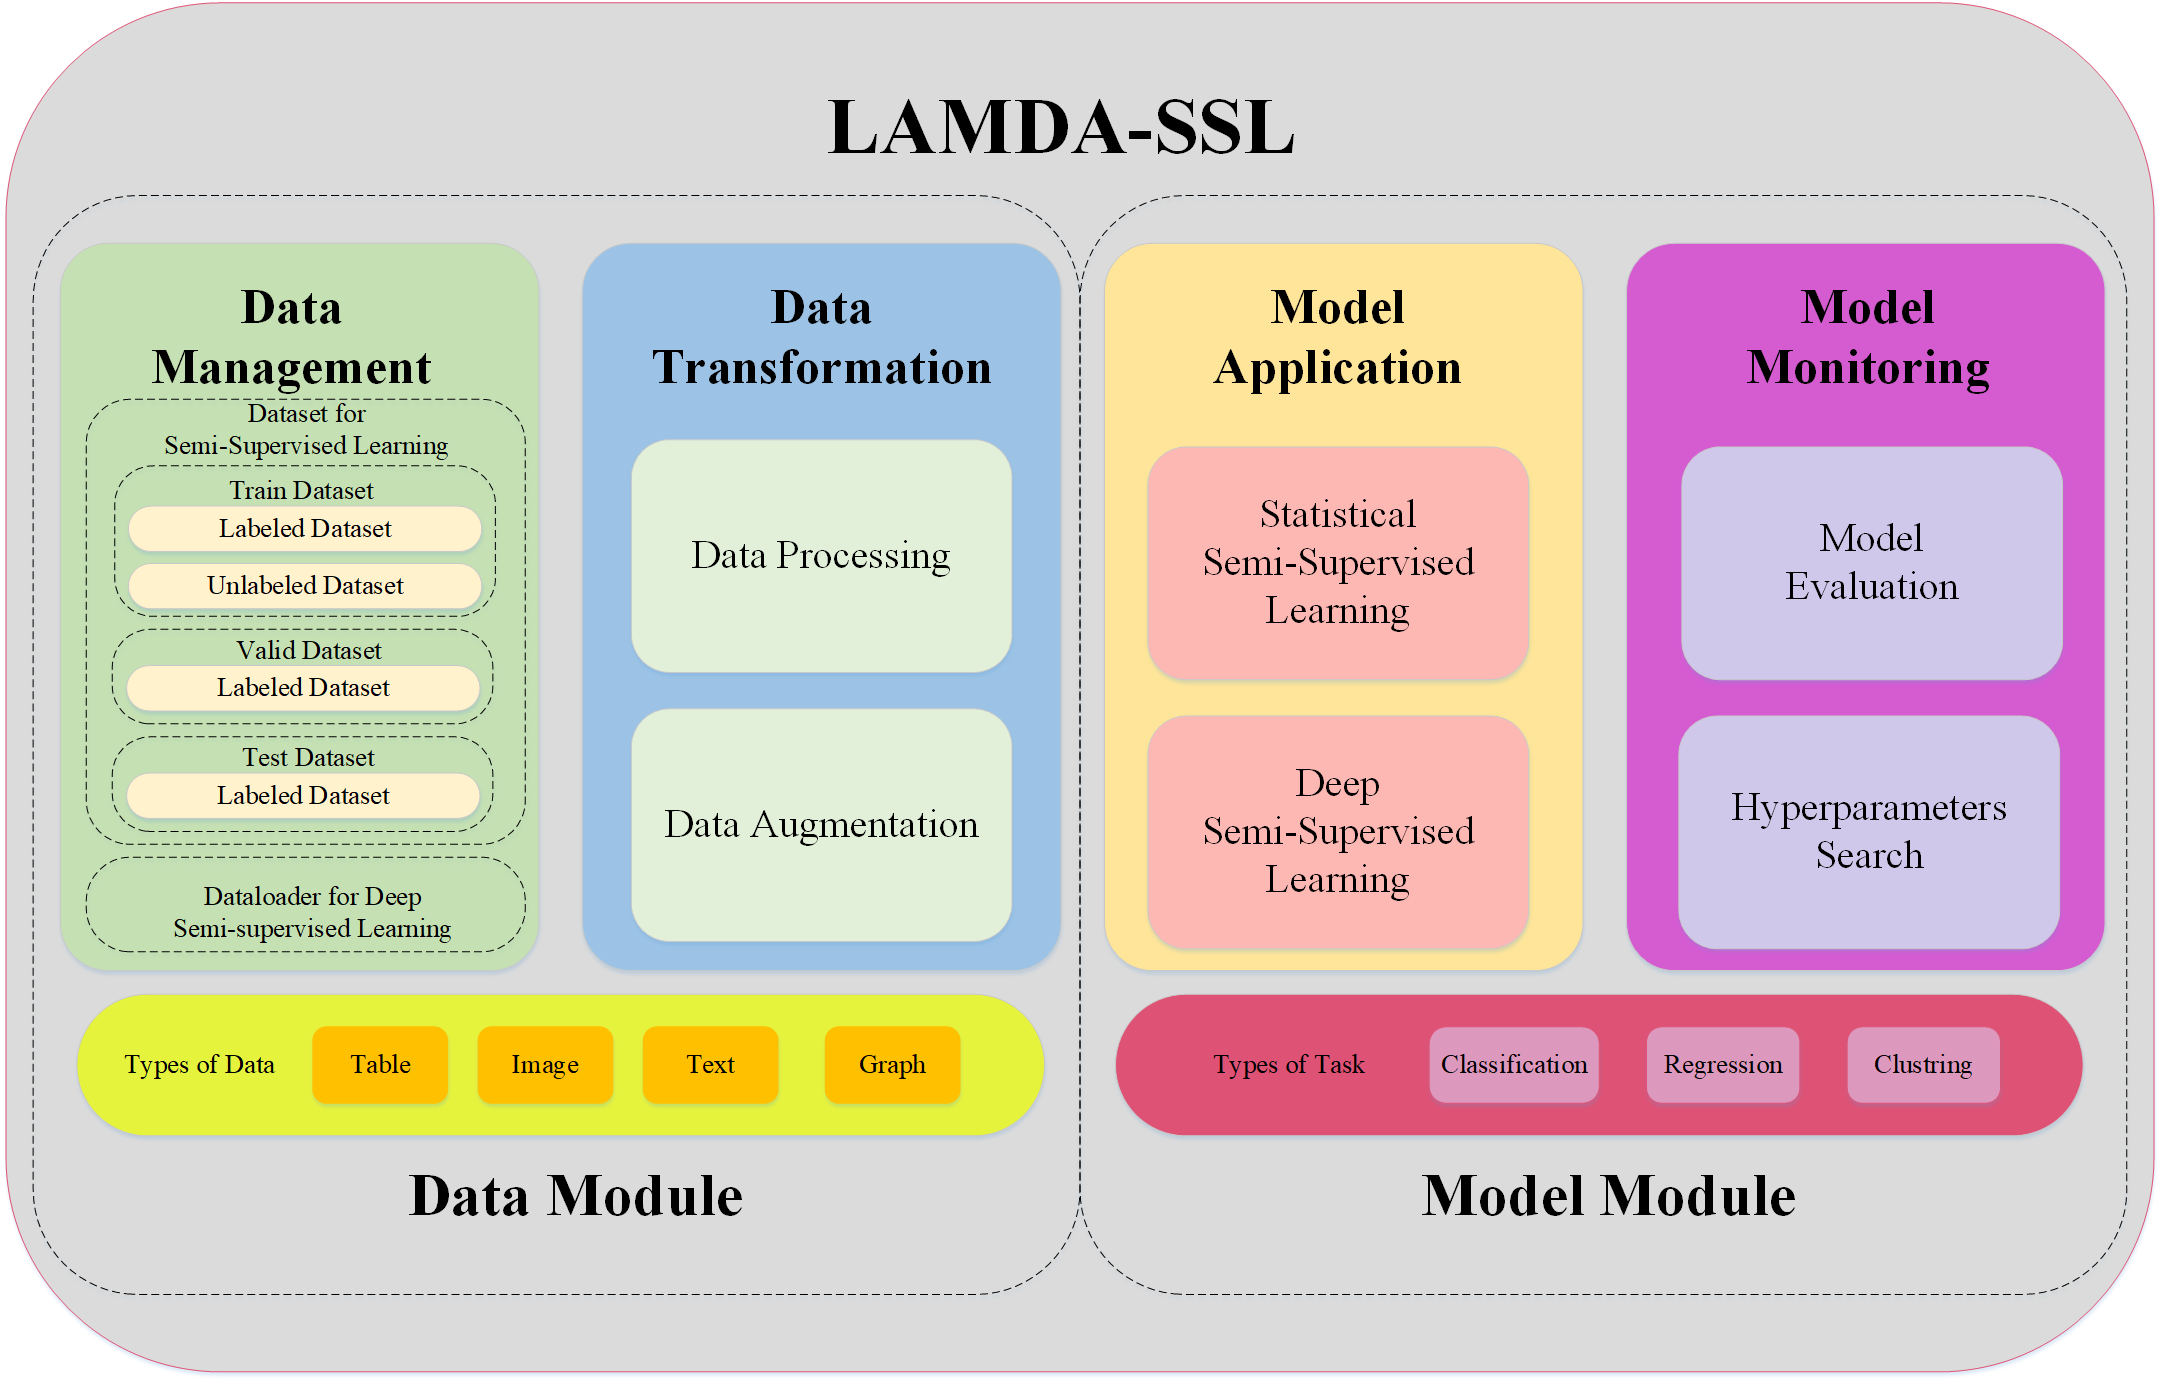
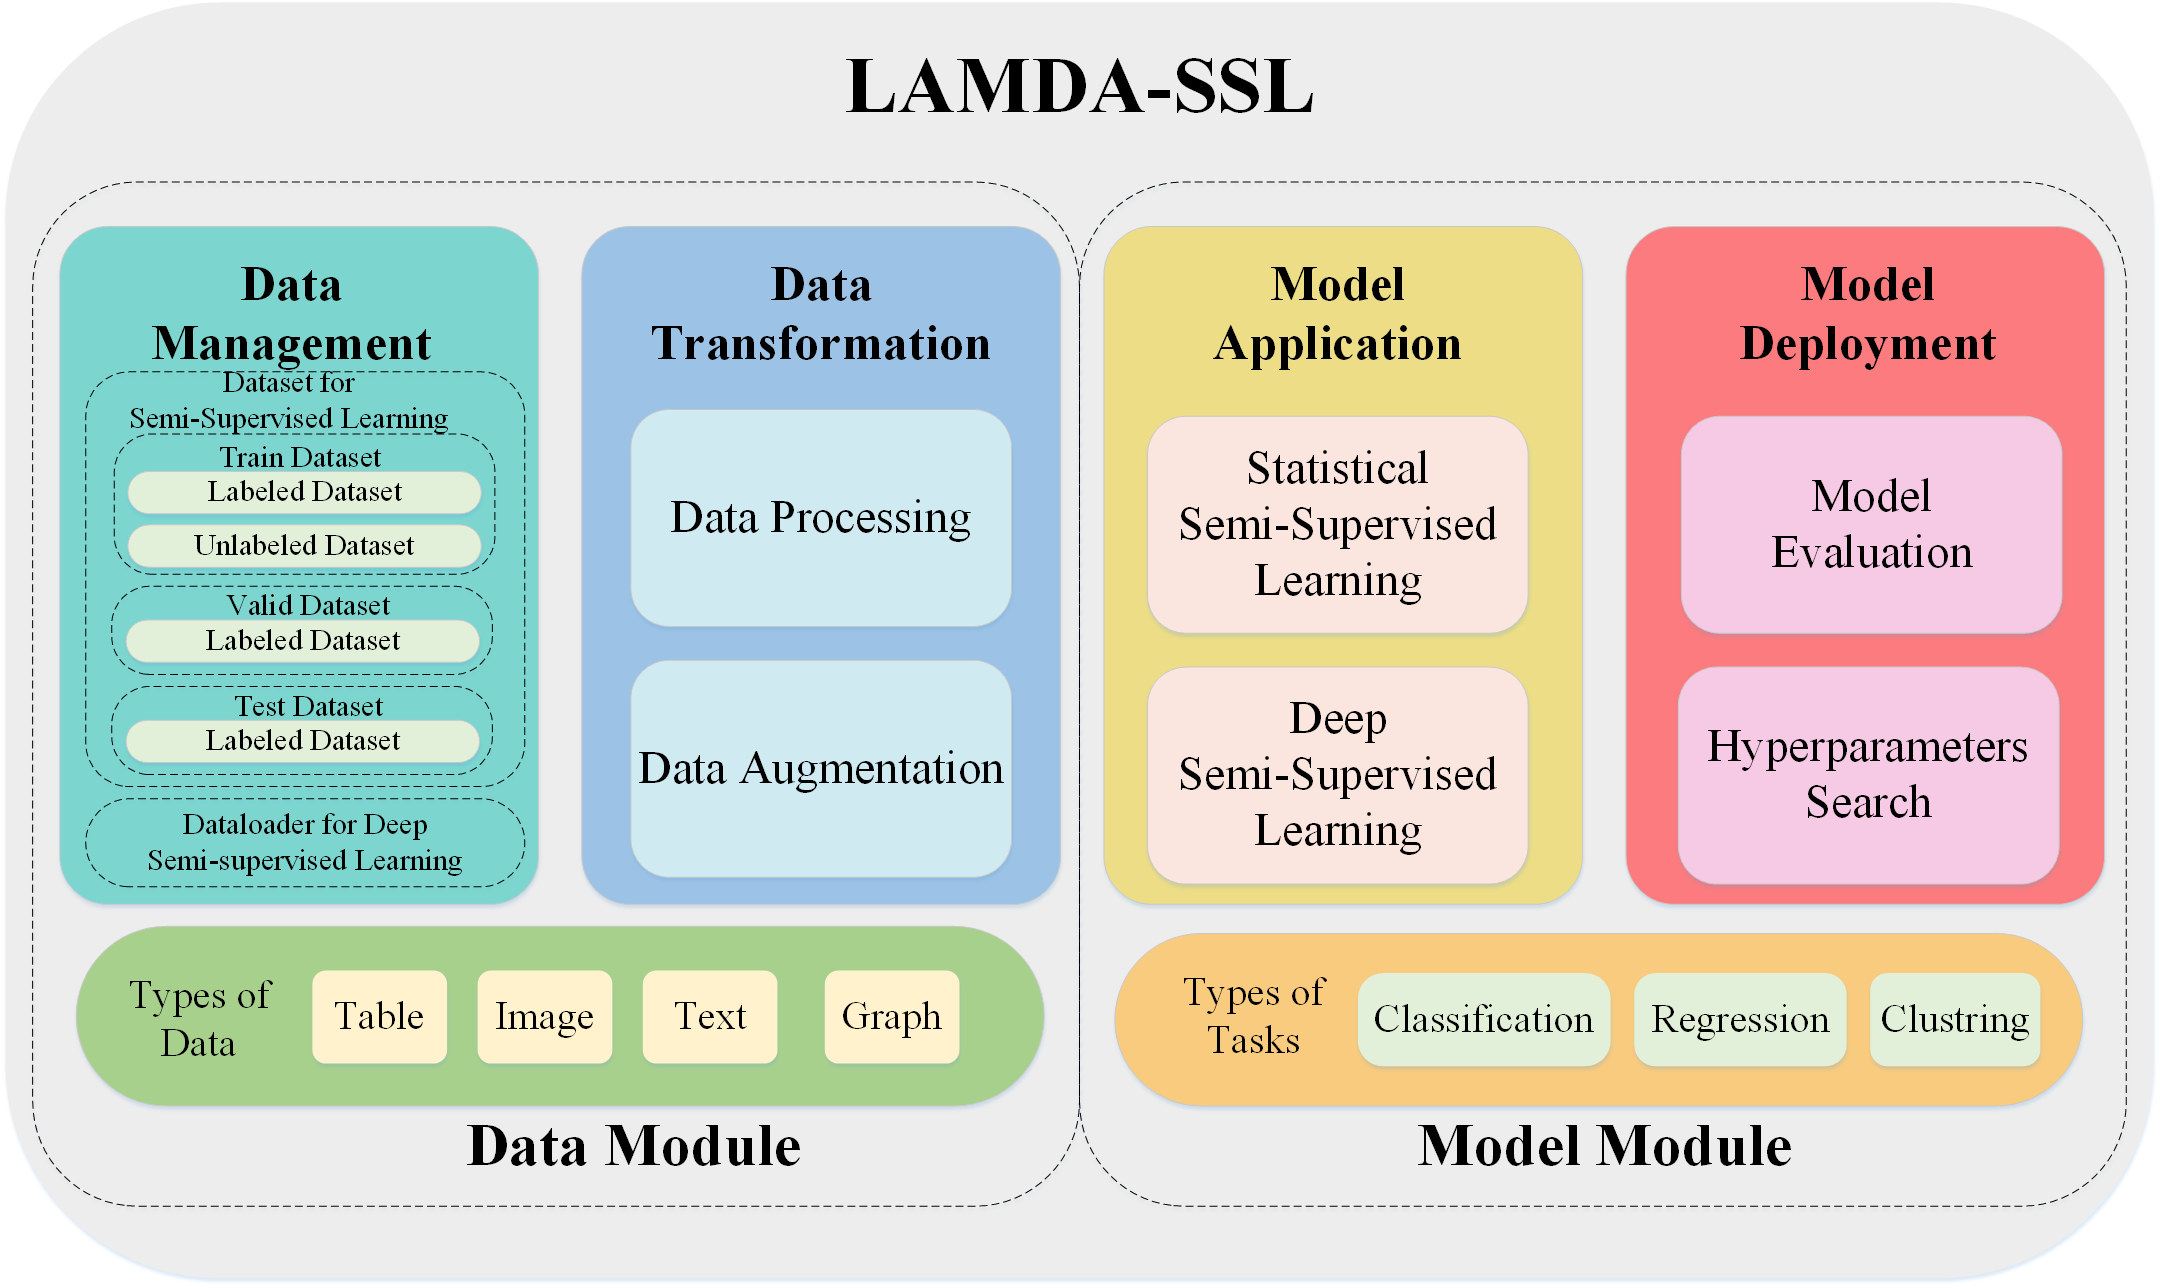
.

diff --git a/LAMDA_SSL/Evaluation/Regressor/Median_Absolute_Error.py b/LAMDA_SSL/Evaluation/Regressor/Median_Absolute_Error.py
@@ -1,0 +1,15 @@
+from LAMDA_SSL.Base.RegressorEvaluation import RegressorEvaluation
+from sklearn.metrics import median_absolute_error
+from LAMDA_SSL.utils import partial
+
+class Median_Absolute_Error(RegressorEvaluation):
+    def __init__(self,sample_weight=None, multioutput="uniform_average"):
+        # >> Parameter
+        # >> - sample_weight: The weight of each sample.
+        # >> - multioutput: Aggregation method for multiple outputs.
+        super().__init__()
+        self.sample_weight=sample_weight
+        self.multioutput=multioutput
+        self.score=partial(median_absolute_error,sample_weight=self.sample_weight,multioutput=self.multioutput)
+    def scoring(self,y_true,y_pred=None):
+        return self.score(y_true=y_true,y_pred=y_pred)

diff --git a/Examples/FixMatch_CIFAR10.py b/Examples/FixMatch_CIFAR10.py
@@ -119,6 +119,7 @@ model=FixMatch(threshold=0.95,lambda_u=1.0,T=0.5,mu=7,weight_decay=5e-4,ema_deca
 model.fit(X=labeled_X,y=labeled_y,unlabeled_X=unlabeled_X,valid_X=valid_X,valid_y=valid_y)
 
 performance=model.evaluate(X=test_X,y=test_y)
+
 result=model.y_pred
 
 print(result,file=file)

diff --git a/setup.py b/setup.py
@@ -12,7 +12,7 @@ with open("README.md", "r", encoding='utf-8') as fh:
 
 setuptools.setup(
     name='LAMDA-SSL',
-    version="0.0.0.1",
+    version="0.0.0.2",
     author="Lin-Han Jia",
     license='MIT',
     author_email="1129198222@qq.com",

diff --git a/README.md b/README.md
@@ -2,6 +2,7 @@
 <img width="1000px" src="./Imgs/Logo1.png"> 
 
 ![](https://badgen.net/pypi/v/LAMDA-SSL)
+![](https://anaconda.org/ygzwqzd/lamda-ssl/badges/version.svg)
 ![](https://badgen.net/github/stars/YGZWQZD/LAMDA-SSL)
 ![visitors](https://visitor-badge.glitch.me/badge?page_id=ygzwqzd.LAMDA-SSL)
 ![](https://badgen.net/github/last-commit/YGZWQZD/LAMDA-SSL)
@@ -13,11 +14,23 @@
 
 #  Introduction
 
-In order to promote the research and application of semi-supervised learning algorithms, we has developed LAMDA which is a convenient and practical semi-supervised learning toolkit. LAMDA-SSL has complete functions, convenient interfaces and detailed documentations. It integrates statistical machine learning algorithms and deep learning algorithms into the same framework. It is compatible with the popular machine learning toolkit sklearn and the popular deep learning toolkit pytorch.  It supports Pipeline mechanism and parameter search functions of sklearn and also supports GPU acceleration and distributed training functions of pytorch. At present, LAMDA-SSL contains 30 semi-supervised learning algorithms, including 12 algorithms based on statistical machine learning models and 18 algorithms based on deep learning models. LAMDA-SSL also contains 45 data processing methods used for 4 types of data: table, image, text, graph and 15 model evaluation criterias used for 3 types of task: classification, regression and clustering. LAMDA-SSL includes multiple modules such as data management, data transformation, algorithm application, model evaluation and so on, which facilitates the completion of the end-to-end semi-supervised learning process.
+In order to promote the research and application of semi-supervised learning algorithms, we has developed LAMDA which is a convenient and practical semi-supervised learning toolkit. LAMDA-SSL has complete functions, convenient interfaces and detailed documentations. It integrates statistical machine learning algorithms and deep learning algorithms into the same framework. It is compatible with the popular machine learning toolkit sklearn and the popular deep learning toolkit pytorch.  It supports Pipeline mechanism and parameter search functions of sklearn and also supports GPU acceleration and distributed training functions of pytorch. At present, LAMDA-SSL contains 30 semi-supervised learning algorithms, including 12 algorithms based on statistical machine learning models and 18 algorithms based on deep learning models. LAMDA-SSL also contains 45 data processing methods used for 4 types of data: table, image, text, graph and 15 model evaluation criterias used for 3 types of task: classification, regression and clustering. LAMDA-SSL includes multiple modules such as data management, data transformation, algorithm application, model deployment and so on, which facilitates the implementation of end to end semi-supervised learning.
 
 <div align=center>
 <img width="1000px" src="./Imgs/Overview.png"> 
 </div>
+
+At present, LAMDA-SSL has implemented 30 semi-supervised learning algorithms, including 12 statistical semi-supervised learning algorithms and 18 deep semi-supervised learning algorithms. 
+
+For statistical semi-supervised learning, algorithms in LAMDA-SSL can be used for classification, regression and clustering. The algorithms used for classification task include generative method SSGMM; semi-supervised support vector machine methods TSVM and LapSVM; graph-based methods Label Propagation and Label Spreading; disagrement-based methods Co-Training and Tri-Training; ensemble methods SemiBoost and Assemble. The algorithm used for regression task is CoReg. The algorithms used for clustering task include Constrained K Means, Constrained Seed K Means.
+<div align=center>
+<img width="1000px" src="./Imgs/Statistical.png"> 
+</div>
+For deep semi-supervised learning (as shown in Figure 3), algorithms in LAMDA-SSL can be used for classification and regression. The algorithms used for classification task include consistency methods Ladder Network, Π Model, Temporal Ensembling, Mean Teacher, VAT and UDA; Pseudo label-based methods Pseudo Label and S4L; hybrid methods ICT, MixMatch, ReMixMatch, FixMatch and FlexMatch; deep generative methods ImprovedGAN and SSVAE; deep graph-based methods SDNE and GCN. The algorithms for regression task include consistency method Π Model Reg, Mean Teacher Reg; hybrid method ICT Reg. These 3 deep SSL regression algorithms are our extensions of their prototypes used for classification.
+<div align=center>
+<img width="1000px" src="./Imgs/Deep.png"> 
+</div>
+
 
 # Advantages
 
@@ -63,7 +76,7 @@ pip install LAMDA-SSL
 
 You can also download LAMDA-SSL directly from anaconda.
 ```
-conda install LAMDA-SSL
+conda install -c ygzwqzd LAMDA-SSL
 ```
 
 

diff --git a/docs/README.md b/docs/README.md
@@ -190,7 +190,7 @@ LAMDA-SSL implements up to 30 semi-supervised learning algorithms, including 12 
 
 ### Statistical Learning Algorithms
 
-LAMDA-SSL contains 12 semi-supervised learning algorithms based on statistical machine learning models (as shown in Figure 9), among which the algorithms used for classification tasks include generative method SSGMM, semi-supervised support vector machine methods TSVM, LapSVM, graph-based methods Label Propagation, Label Spreading, divergence-based methods Co-Training, Tri-Training, ensemble methods SemiBoost, Assemble; the algorithms used for regression tasks include CoReg; the algorithms used for clustering tasks include Constrained K Means, Constrained Seed K Means.
+LAMDA-SSL contains 12 semi-supervised learning algorithms based on statistical machine learning models (as shown in Figure 9), among which the algorithms used for classification tasks include generative method SSGMM, semi-supervised support vector machine methods TSVM, LapSVM, graph-based methods Label Propagation, Label Spreading, disagreement-based methods Co-Training, Tri-Training, ensemble methods SemiBoost, Assemble; the algorithms used for regression tasks include CoReg; the algorithms used for clustering tasks include Constrained K Means, Constrained Seed K Means.
 
 <div align=center>
 

diff --git a/docs/zh-cn/README.md b/docs/zh-cn/README.md
@@ -57,7 +57,7 @@ LAMDA-SSL的数据模块设计思想如图4所示。
 
 <div align=center>
 
-<img width=500px src="./Imgs/DataModule.png" >
+<img width=1000px src="./Imgs/DataModule.png" >
 
 <br>
 
